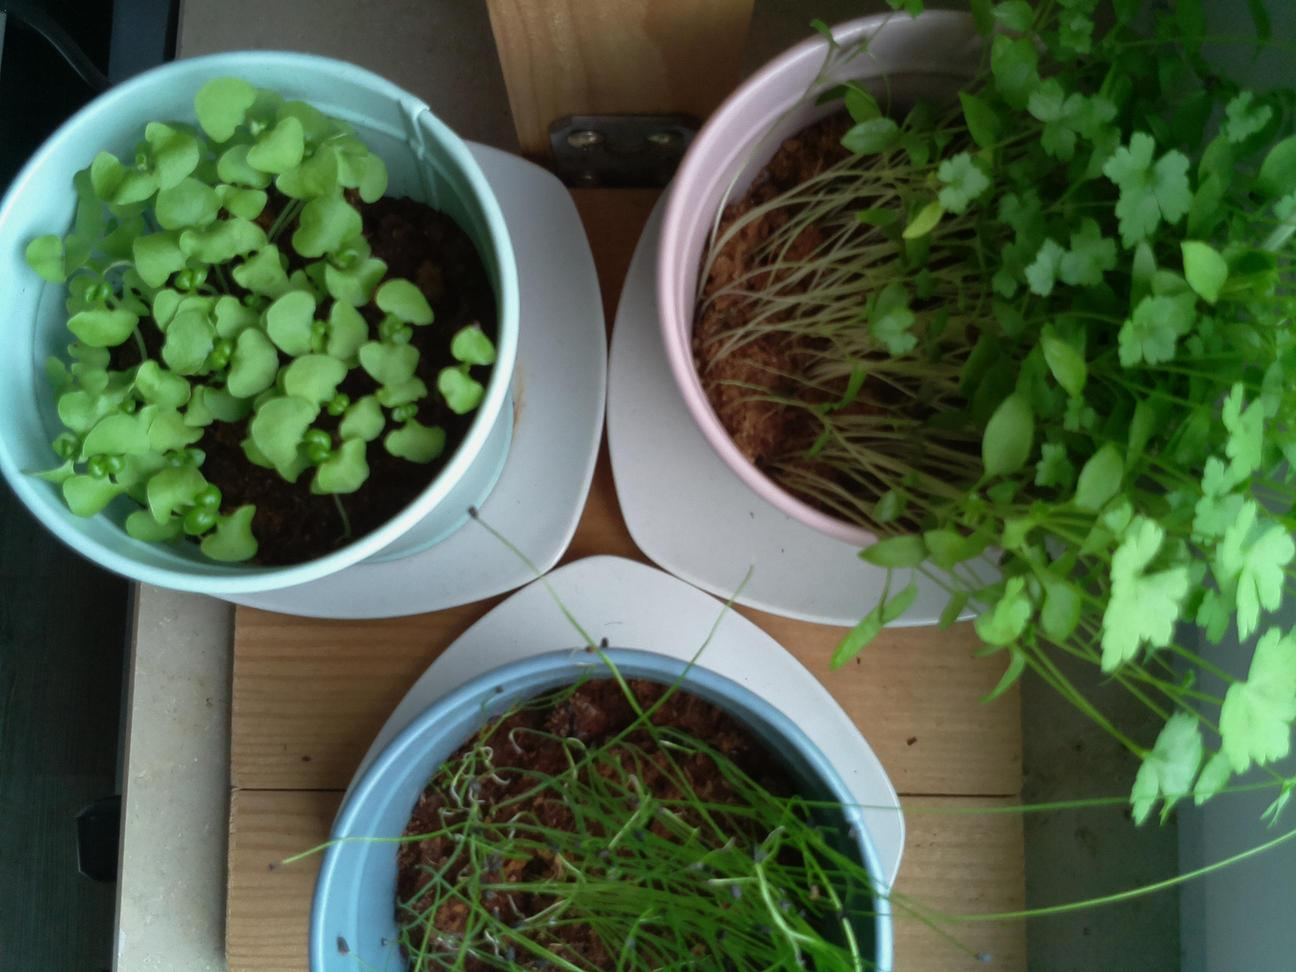
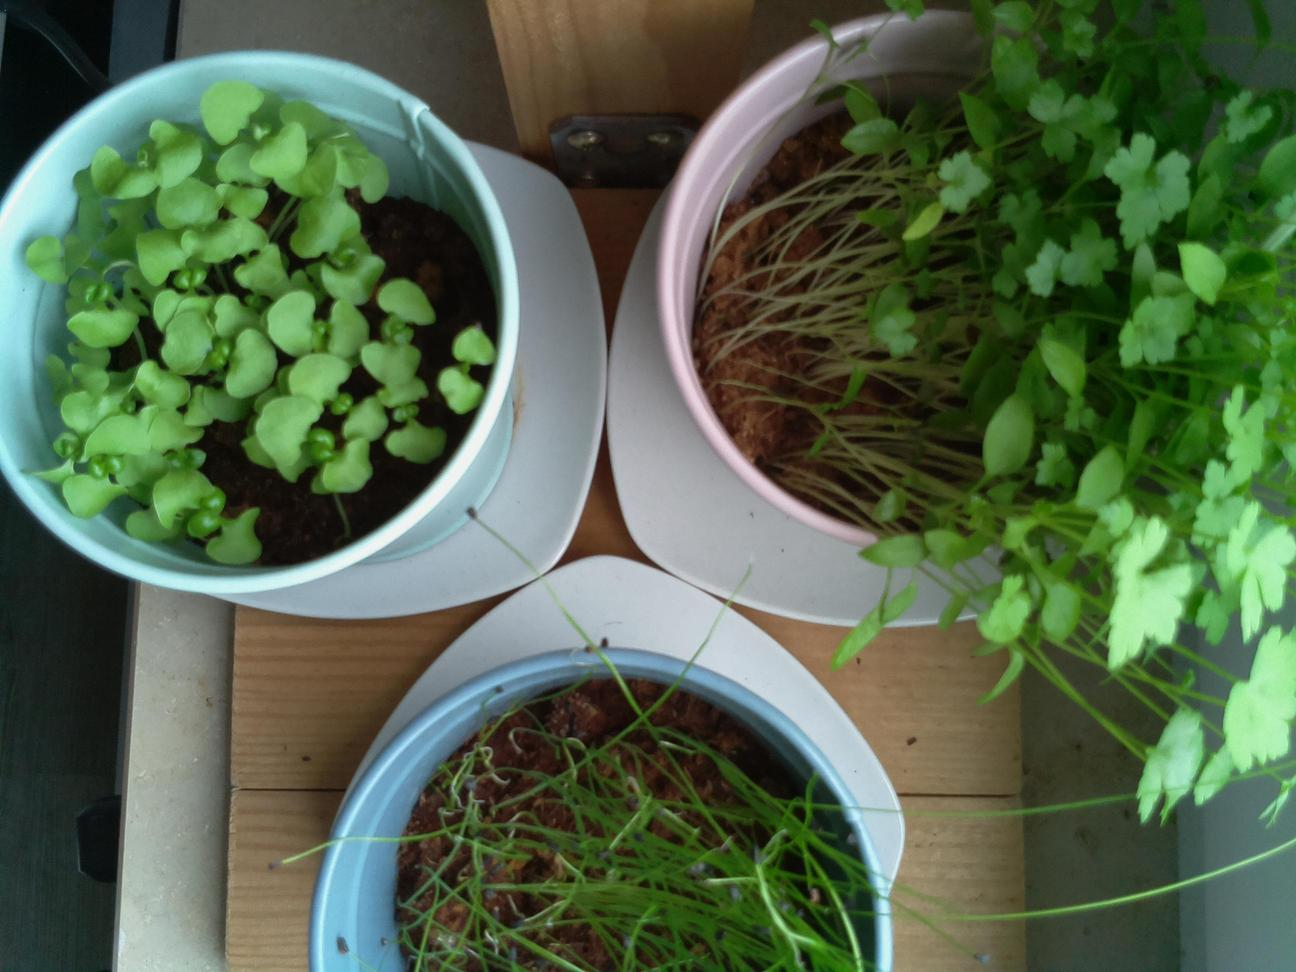
Update images at Wed 26 May 09:02:55 BST 2021

diff --git a/docs/index.html b/docs/index.html
@@ -28,7 +28,7 @@
 
                 <h5>Latest image</h5>
 		<div style="width: 85%;">
-	                <img class="figure-img img-fluid rounded" src="./preview.jpg?uid=1622012556.9944906">
+	                <img class="figure-img img-fluid rounded" src="./preview.jpg?uid=1622016175.3326483">
 		</div>
             </div>
         </div>
